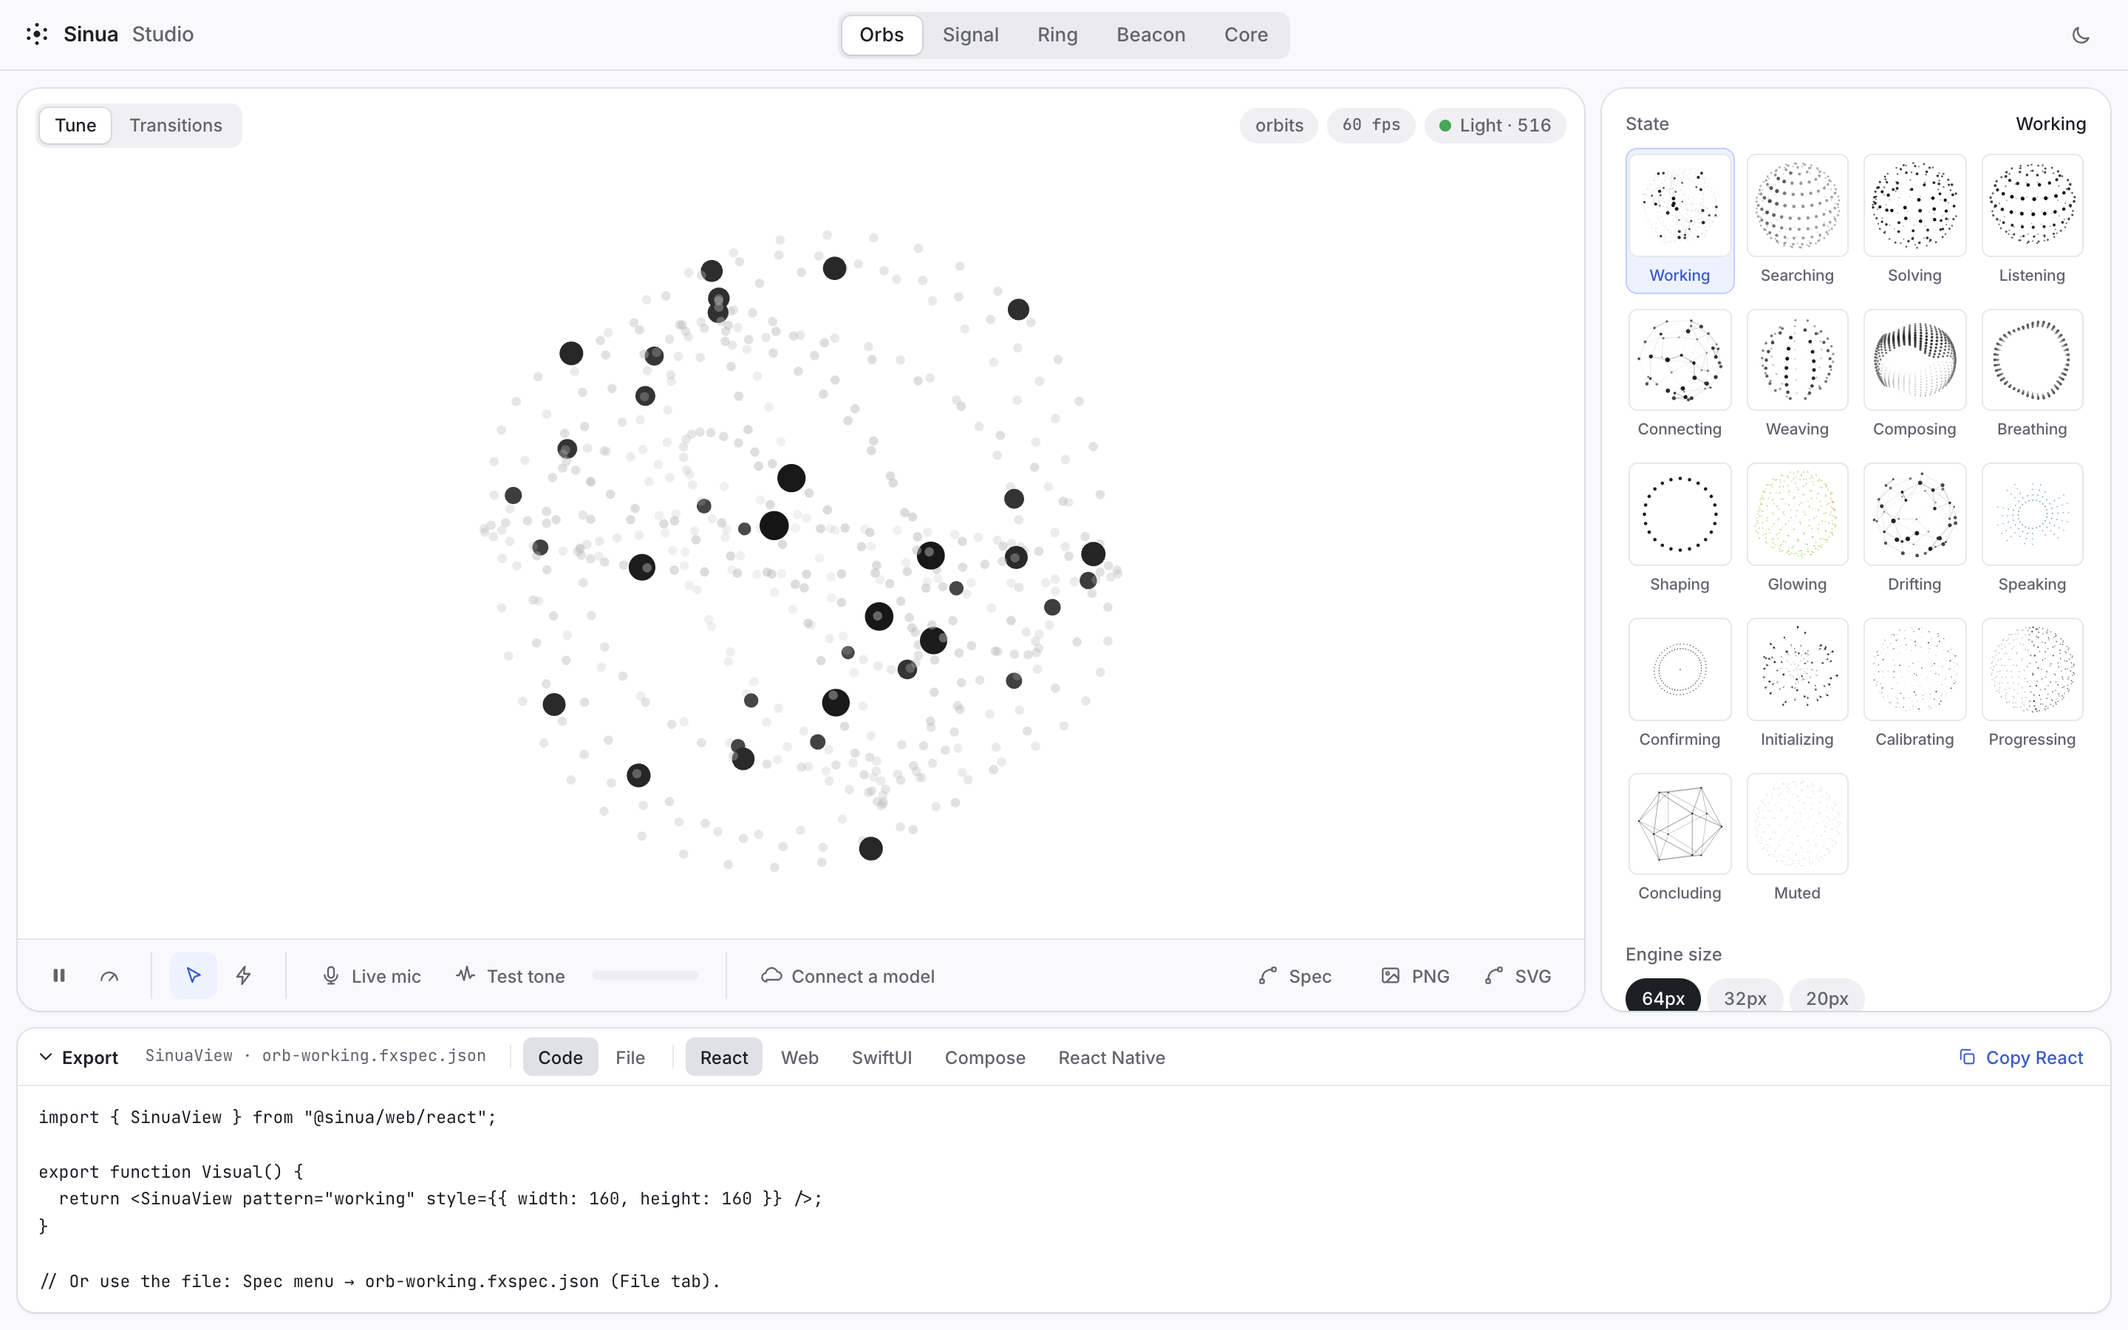
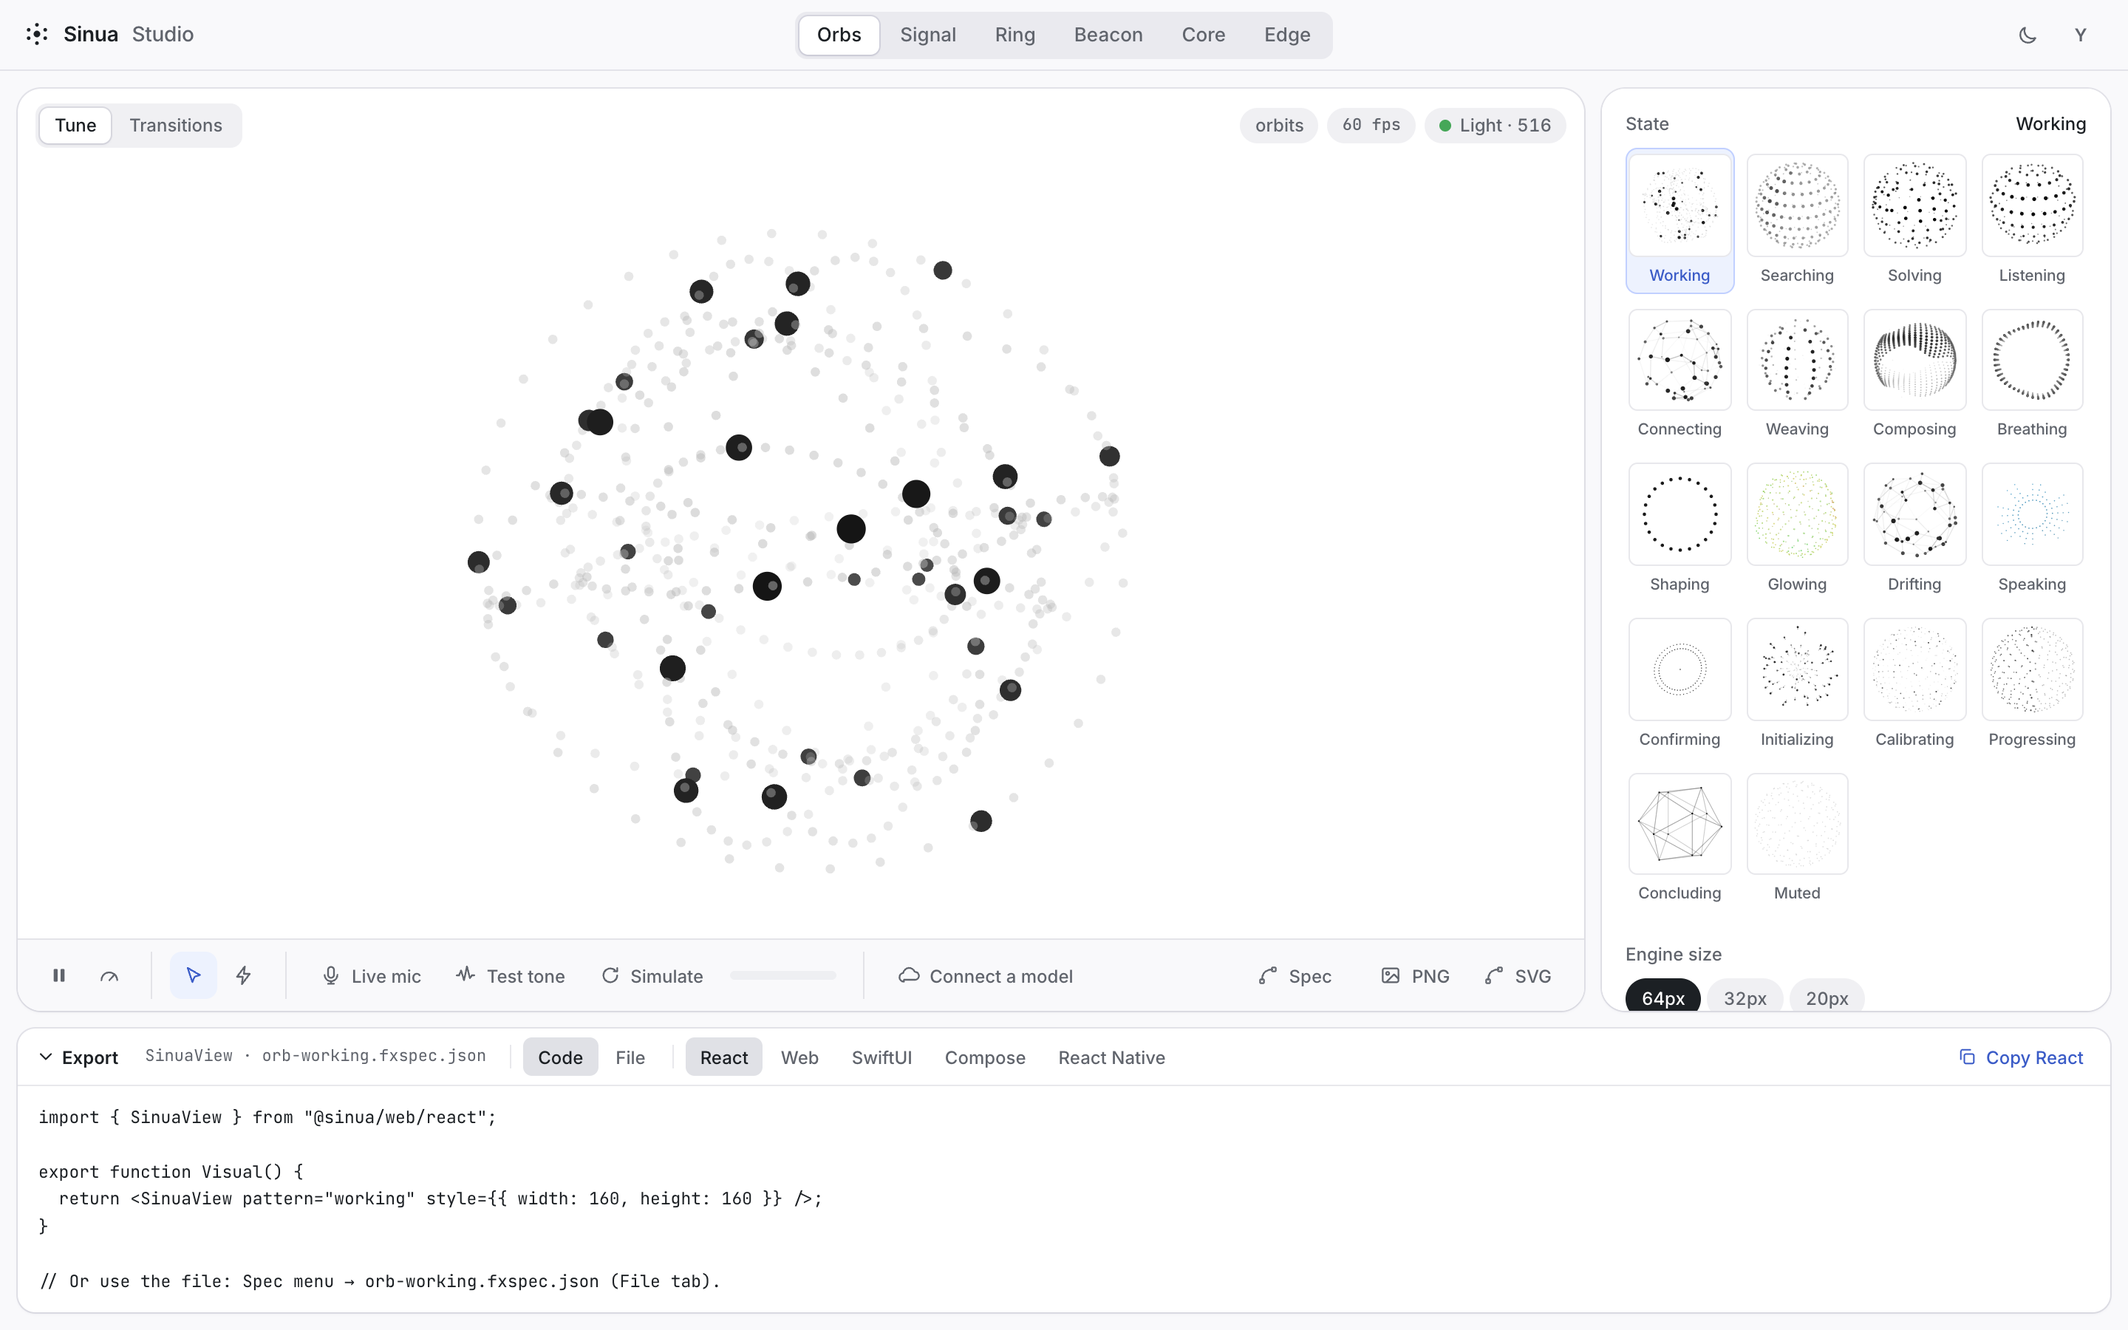
sinua.dev: Studio in the header and docs nav, a goal demo (bindings, rules, effects), landing fixes
- Studio links in the site header, footer and docs nav; a trial button on the landing's
  Studio card; "Try the Studio" in the hero.
- "Your numbers pick the state": the docs' activity-rules file mounted live, with steps and
  heart-rate sliders, the engine's derived state, and one-shot effects (snippets/states/goal-react.tsx).
- The voice timeline has one column per turn (the calendar sample has five).
- "In a real app" shows phones only once a recording exists.
- Families lead names Edge; the Studio tour image shows the Edge tab.

diff --git a/apps/site/components/landing/goal.tsx b/apps/site/components/landing/goal.tsx
@@ -1,0 +1,114 @@
+"use client";
+/**
+ * App data, not voice: the docs' activity-rings file (snippets/spec/activity-rules.fxspec.json)
+ * mounted as it is. The sliders are the app's numbers; the file's bindings fill the rings, its
+ * rules pick the state, and crossing the step goal plays a one-shot effect -- the React snippet
+ * beside it (snippets/states/goal-react.tsx) is the same thing in an app. The state shown is
+ * the engine's own `fxSpecDeriveState`, the function the view itself runs.
+ */
+import { useEffect, useMemo, useRef, useState } from "react";
+import type { FxHandle } from "@sinua/web";
+import { PgSlider, Snippet } from "@sinua/design";
+import { useSiteTheme } from "@/lib/use-site-theme";
+
+const GOAL = 10_000;
+const EFFECTS = ["success", "error", "celebrate"] as const;
+type Derive = (json: string, inputs: Record<string, number>, previous: string | null) => string | null;
+
+export function Goal({ spec, react }: { spec: string; react: string }) {
+  const canvas = useRef<HTMLCanvasElement>(null);
+  const handle = useRef<FxHandle | null>(null);
+  const derive = useRef<Derive | null>(null);
+  const theme = useSiteTheme();
+  const [steps, setSteps] = useState(6500);
+  const [heartRate, setHeartRate] = useState(90);
+  const [state, setState] = useState<string | null>(null);
+  const inputs = useMemo(() => ({ steps, heartRate }), [steps, heartRate]);
+
+  // Mount reads the latest options: the engine chunk can land after a theme or input change.
+  const latest = useRef({ inputs, theme });
+  latest.current = { inputs, theme };
+
+  useEffect(() => {
+    let live = true;
+    Promise.all([import("@sinua/web"), import("@sinua/core")])
+      .then(([{ mount }, core]) => {
+        if (!live || !canvas.current) return;
+        derive.current = core.fxSpecDeriveState;
+        handle.current = mount(canvas.current, { spec: JSON.parse(spec) as object, ...latest.current, label: "Daily rings" });
+        setState(core.fxSpecDeriveState(spec, latest.current.inputs, null));
+      })
+      .catch((err: unknown) => {
+        console.error("Sinua: the engine chunk failed to load; the %s will stay blank.", "goal demo", err);
+      });
+    return () => {
+      live = false;
+      handle.current?.destroy();
+      handle.current = null;
+    };
+  }, [spec]);
+
+  useEffect(() => {
+    handle.current?.update({ inputs, theme });
+    // The previous state goes back in, as the view does: that is what makes hysteresis hold.
+    setState((prev) => derive.current?.(spec, inputs, prev) ?? null);
+  }, [inputs, theme, spec]);
+
+  const onSteps = (next: number) => {
+    if (steps < GOAL && next >= GOAL) handle.current?.trigger("celebrate");
+    setSteps(next);
+  };
+
+  return (
+    <section className="lp-section" aria-labelledby="lp-goal">
+      <header className="lp-section-head">
+        <h2 id="lp-goal" className="lp-h2">
+          Your numbers pick the state
+        </h2>
+        <p className="lp-lead">
+          Pass the app&apos;s values and let the file decide what they mean. Here a binding fills the rings, a rule switches to the goal state at 10,000
+          steps, and one call plays a short celebration on top. Push the heart rate past 150 for the other rule.
+        </p>
+      </header>
+
+      <div className="lp-workbench">
+        <div className="lp-stage lp-look-stage">
+          <canvas ref={canvas} className="lp-look-visual" aria-label="Daily rings" />
+        </div>
+        <div className="lp-inspector">
+          <PgSlider label="Steps" value={steps} min={0} max={15000} step={250} display={steps.toLocaleString("en-US")} onChange={onSteps} />
+          <PgSlider label="Heart rate" value={heartRate} min={60} max={170} step={1} display={`${heartRate} bpm`} onChange={setHeartRate} />
+          <div className="pg-field">
+            <span className="pg-label">
+              <span>State</span>
+            </span>
+            <p className="lp-goal-state">
+              <code>{state ?? "base"}</code>
+              <span>{state === "goalReached" ? "the step rule holds" : state === "intense" ? "above 150 bpm, back below 145" : "no rule holds"}</span>
+            </p>
+          </div>
+          <div className="pg-field">
+            <span className="pg-label">
+              <span>Play an effect</span>
+            </span>
+            <div className="lp-toggles">
+              {EFFECTS.map((e) => (
+                <button key={e} type="button" className="pg-tab" onClick={() => handle.current?.trigger(e)}>
+                  {e}
+                </button>
+              ))}
+            </div>
+          </div>
+        </div>
+        <div className="lp-workbench-code">
+          <Snippet
+            tabs={[
+              { id: "react", label: "React", code: react },
+              { id: "spec", label: "activity-rules.fxspec.json", code: spec },
+            ]}
+          />
+        </div>
+      </div>
+    </section>
+  );
+}

diff --git a/apps/site/components/landing/real-app.tsx b/apps/site/components/landing/real-app.tsx
@@ -5,7 +5,8 @@
  * data -- the colour follows the day's nutrition, and it thinks while the AI answers.
  *
  * The phones show screen recordings of the app itself, never a live Sinua visual
- * dressed up as one. Until a recording is in public/real-app/, its frame says so.
+ * dressed up as one. A phone appears only once its recording is in public/real-app/;
+ * with none, the section is the text and the code alone.
  * The file and the code beside them are the snippet files CI compiles.
  */
 import { useEffect, useState } from "react";
@@ -23,6 +24,7 @@ export interface Recording {
 const STATES = ["An empty day in the logo's colours", "The day's nutrition sets the colour", "Thinking while the AI answers"];
 
 export function RealApp({ recordings, spec, swift, kotlin }: { recordings: Recording[]; spec: string; swift: string; kotlin: string }) {
+  const recorded = recordings.filter((r) => r.video);
   return (
     <section className="lp-section" aria-labelledby="lp-real-app">
       <header className="lp-section-head">
@@ -35,24 +37,22 @@ export function RealApp({ recordings, spec, swift, kotlin }: { recordings: Recor
         </p>
       </header>
 
-      <div className="lp-real">
-        <div className="lp-real-phones">
-          {recordings.map((r) => (
-            <figure key={r.platform} className="lp-device lp-real-phone" data-device={r.platform === "ios" ? "phone-ios" : "phone-android"}>
-              <span className="lp-device-screen lp-real-screen">
-                {r.video ? (
-                  <Recording video={r.video} label={`DevinFit on ${r.label}, screen recording`} />
-                ) : (
-                  <span className="lp-real-pending">Screen recording coming</span>
-                )}
-              </span>
-              <figcaption className="lp-device-label">
-                <PlatformIcon platform={r.platform} />
-                {r.label}
-              </figcaption>
-            </figure>
-          ))}
-        </div>
+      <div className={recorded.length ? "lp-real" : "lp-real lp-real-solo"}>
+        {recorded.length ? (
+          <div className="lp-real-phones">
+            {recorded.map((r) => (
+              <figure key={r.platform} className="lp-device lp-real-phone" data-device={r.platform === "ios" ? "phone-ios" : "phone-android"}>
+                <span className="lp-device-screen lp-real-screen">
+                  <Recording video={r.video!} label={`DevinFit on ${r.label}, screen recording`} />
+                </span>
+                <figcaption className="lp-device-label">
+                  <PlatformIcon platform={r.platform} />
+                  {r.label}
+                </figcaption>
+              </figure>
+            ))}
+          </div>
+        ) : null}
 
         <div className="lp-real-side">
           <ul className="lp-real-states" aria-label="What Soul shows">

diff --git a/apps/site/app/landing.css b/apps/site/app/landing.css
@@ -519,9 +519,11 @@
   margin: 0;
 }
 
+/* One column per turn of the sample, however many it has (calendar: five). */
 .lp-timeline {
   display: grid;
-  grid-template-columns: repeat(4, minmax(0, 1fr));
+  grid-auto-flow: column;
+  grid-auto-columns: minmax(0, 1fr);
   gap: 8px;
   margin: 0 0 12px;
   padding: 0;
@@ -781,6 +783,10 @@
   padding: 24px;
 }
 
+.lp-plan-actions {
+  margin-top: 4px;
+}
+
 .lp-plan p {
   margin: 0;
   max-width: 44ch;
@@ -985,6 +991,12 @@
   gap: 32px;
 }
 
+/* No recording yet: the text and the code, at reading width. */
+.lp-real-solo {
+  grid-template-columns: minmax(0, 1fr);
+  max-width: 720px;
+}
+
 .lp-real-phones {
   display: grid;
   grid-template-columns: repeat(2, minmax(0, 1fr));
@@ -999,8 +1011,7 @@
   max-width: 240px;
 }
 
-.lp-real-video,
-.lp-real-pending {
+.lp-real-video {
   display: grid;
   place-items: center;
   width: 100%;
@@ -1008,14 +1019,6 @@
   border-radius: 14px;
   background: var(--bg-stage);
   object-fit: cover;
-}
-
-.lp-real-pending {
-  padding: 16px;
-  font-size: var(--fs-1);
-  text-align: center;
-  color: var(--text-2);
-  box-shadow: inset 0 0 0 1px var(--hairline);
 }
 
 .lp-real-side {
@@ -1048,6 +1051,23 @@
   .lp-real {
     grid-template-columns: minmax(0, 1fr);
   }
+}
+
+/* ---- your numbers pick the state (goal demo) ------------------------------ */
+
+.lp-goal-state {
+  display: flex;
+  flex-wrap: wrap;
+  align-items: baseline;
+  gap: 4px 10px;
+  margin: 0;
+  font-size: var(--fs-1);
+  color: var(--text-2);
+}
+
+.lp-goal-state code {
+  font-size: var(--fs-2);
+  color: var(--text);
 }
 
 /* ---- legal pages (app/legal) -------------------------------------------- */

diff --git a/apps/site/app/page.tsx b/apps/site/app/page.tsx
@@ -9,6 +9,7 @@ import { Voice } from "@/components/landing/voice";
 import { Look } from "@/components/landing/look";
 import { Pricing } from "@/components/landing/sections";
 import { RealApp, type Recording } from "@/components/landing/real-app";
+import { Goal } from "@/components/landing/goal";
 import "./landing.css";
 
 /**
@@ -45,6 +46,12 @@ function realApp() {
   };
 }
 
+/** The goal demo's file and code: the snippets CI compiles, as they are. */
+function goal() {
+  const snippet = (path: string) => readFileSync(join(process.cwd(), "snippets", path), "utf8").trimEnd();
+  return { spec: snippet("spec/activity-rules.fxspec.json"), react: snippet("states/goal-react.tsx") };
+}
+
 export default function LandingPage() {
   const { patterns, frames } = counts();
   const devinfit = realApp();
@@ -57,6 +64,7 @@ export default function LandingPage() {
         <Voice />
         <Platforms frames={frames} />
         <RealApp {...devinfit} />
+        <Goal {...goal()} />
         <Look />
         <Pricing />
       </main>

diff --git a/apps/site/snippets/Package.swift b/apps/site/snippets/Package.swift
@@ -9,7 +9,7 @@ let topics: [(folder: String, target: String, exclude: [String])] = [
     ("first-visual", "FirstVisual", ["react.tsx", "react-native.tsx", "compose.kt"]),
     ("platforms", "Platforms", ["compose.kt", "android-view.kt", "android-res", "react-native.tsx"]),
     ("values", "Values", ["react.tsx", "compose.kt", "voice-message-react.tsx", "voice-message.kt"]),
-    ("states", "States", ["react.tsx", "compose.kt", "plain-react.tsx", "plain-compose.kt", "plain-react-native.tsx",
+    ("states", "States", ["goal-react.tsx", "react.tsx", "compose.kt", "plain-react.tsx", "plain-compose.kt", "plain-react-native.tsx",
                           "effects-web.ts", "effects.kt", "effects-react-native.tsx"]),
     ("bindings", "Bindings", ["react.tsx", "compose.kt", "rules-react.tsx", "rules.kt"]),
     ("voice", "Voice", ["overview-web.ts", "openai-realtime-web.ts", "gemini-live-web.ts", "elevenlabs-web.ts", "livekit-web.ts", "mic-and-tone-web.ts",

diff --git a/apps/site/snippets/states/goal-react.tsx b/apps/site/snippets/states/goal-react.tsx
@@ -1,0 +1,16 @@
+import { useEffect, useRef } from "react";
+import type { FxHandle } from "@sinua/web";
+import { SinuaView } from "@sinua/web/react";
+import rings from "../spec/activity-rules.fxspec.json";
+
+// Your numbers go in; the file decides what they mean. A binding fills the rings, a rule
+// switches to goalReached at 10,000 steps, and one call plays a short celebration on top.
+export function DailyRings({ steps, heartRate }: { steps: number; heartRate: number }) {
+  const fx = useRef<FxHandle | null>(null);
+  const last = useRef(steps);
+  useEffect(() => {
+    if (last.current < 10_000 && steps >= 10_000) fx.current?.trigger("celebrate");
+    last.current = steps;
+  }, [steps]);
+  return <SinuaView spec={rings} inputs={{ steps, heartRate }} onReady={(h) => (fx.current = h)} style={{ width: 160, height: 160 }} />;
+}

diff --git a/apps/site/components/chrome.tsx b/apps/site/components/chrome.tsx
@@ -18,6 +18,7 @@ export function SiteHeader() {
       <nav className="lp-nav" aria-label="Site">
         <Link href={brand.links.docs}>Docs</Link>
         <Link href={brand.links.gallery}>Gallery</Link>
+        <Link href={brand.links.studioPage}>Studio</Link>
         <a href={brand.links.repo}>GitHub</a>
         <ThemeSwitch className="lp-theme" />
       </nav>
@@ -36,6 +37,7 @@ export function SiteFooter() {
         <nav className="lp-nav" aria-label="Footer">
           <Link href={brand.links.docs}>Docs</Link>
           <Link href={brand.links.gallery}>Gallery</Link>
+          <Link href={brand.links.studioPage}>Studio</Link>
           <Link href="/docs/resources/changelog/">Changelog</Link>
           <Link href="/docs/resources/license/">License</Link>
           <Link href="/legal/terms/">Terms</Link>

diff --git a/apps/site/components/landing/sections.tsx b/apps/site/components/landing/sections.tsx
@@ -29,9 +29,16 @@ export function Pricing() {
           <p>
             {brand.copy.studioPitch} From {brand.studio.yearlyPerMonth} a month, with a {brand.studio.trialDays}-day free trial.
           </p>
-          <Link className="lp-link" href={brand.links.studioPage}>
-            See the Studio and prices
-          </Link>
+          <div className="lp-actions lp-plan-actions">
+            {brand.studioOpen ? (
+              <a className="lp-button" href={`${brand.studio.url}/login`}>
+                Start {brand.studio.trialDays}-day trial
+              </a>
+            ) : null}
+            <Link className="lp-link" href={brand.links.studioPage}>
+              See the Studio and prices
+            </Link>
+          </div>
         </div>
       </div>
     </section>

diff --git a/apps/site/components/landing/families.tsx b/apps/site/components/landing/families.tsx
@@ -92,7 +92,7 @@ export function Families() {
           {total} patterns in {objects.length} families
         </h2>
         <p className="lp-lead">
-          Orbs for an agent's inner life, signals for sound, rings for progress, beacons for attention and cores for text that is on its way. Point at one to
+          Orbs for an agent's inner life, signals for sound, rings for progress, beacons for attention, cores for text that is on its way and an edge that lights the whole screen. Point at one to
           set it moving; every frame below is drawn by the engine.
         </p>
       </header>

diff --git a/apps/site/lib/brand.ts b/apps/site/lib/brand.ts
@@ -50,7 +50,7 @@ export const brand = {
     docs: "/docs/getting-started/",
     gallery: "/gallery/",
     repo: "https://github.com/sinua-dev/sinua",
-    /** The Studio's tour and its page with prices; neither links to the tool until `studioOpen`. */
+    /** The Studio's tour and its page with prices (the page links to the tool once `studioOpen`). */
     studioTour: "/docs/studio/",
     studioPage: "/studio/",
     /** DevinFit, our own app that ships Sinua (iOS; Android is in closed testing, so no Play link). */

diff --git a/apps/site/components/landing/hero.tsx b/apps/site/components/landing/hero.tsx
@@ -51,6 +51,11 @@ export function Hero({ patternCount }: { patternCount: number }) {
           <Link className="lp-link" href={brand.links.gallery}>
             See all {patternCount} patterns
           </Link>
+          {brand.studioOpen ? (
+            <Link className="lp-link" href={brand.links.studioPage}>
+              Try the Studio
+            </Link>
+          ) : null}
         </div>
       </div>
 

diff --git a/apps/site/lib/layout.shared.tsx b/apps/site/lib/layout.shared.tsx
@@ -6,6 +6,9 @@ export function baseOptions(): BaseLayoutProps {
   return {
     nav: { title: appName },
     githubUrl: brand.links.repo,
-    links: [{ text: "Gallery", url: "/gallery" }],
+    links: [
+      { text: "Gallery", url: brand.links.gallery },
+      { text: "Studio", url: brand.links.studioPage },
+    ],
   };
 }
